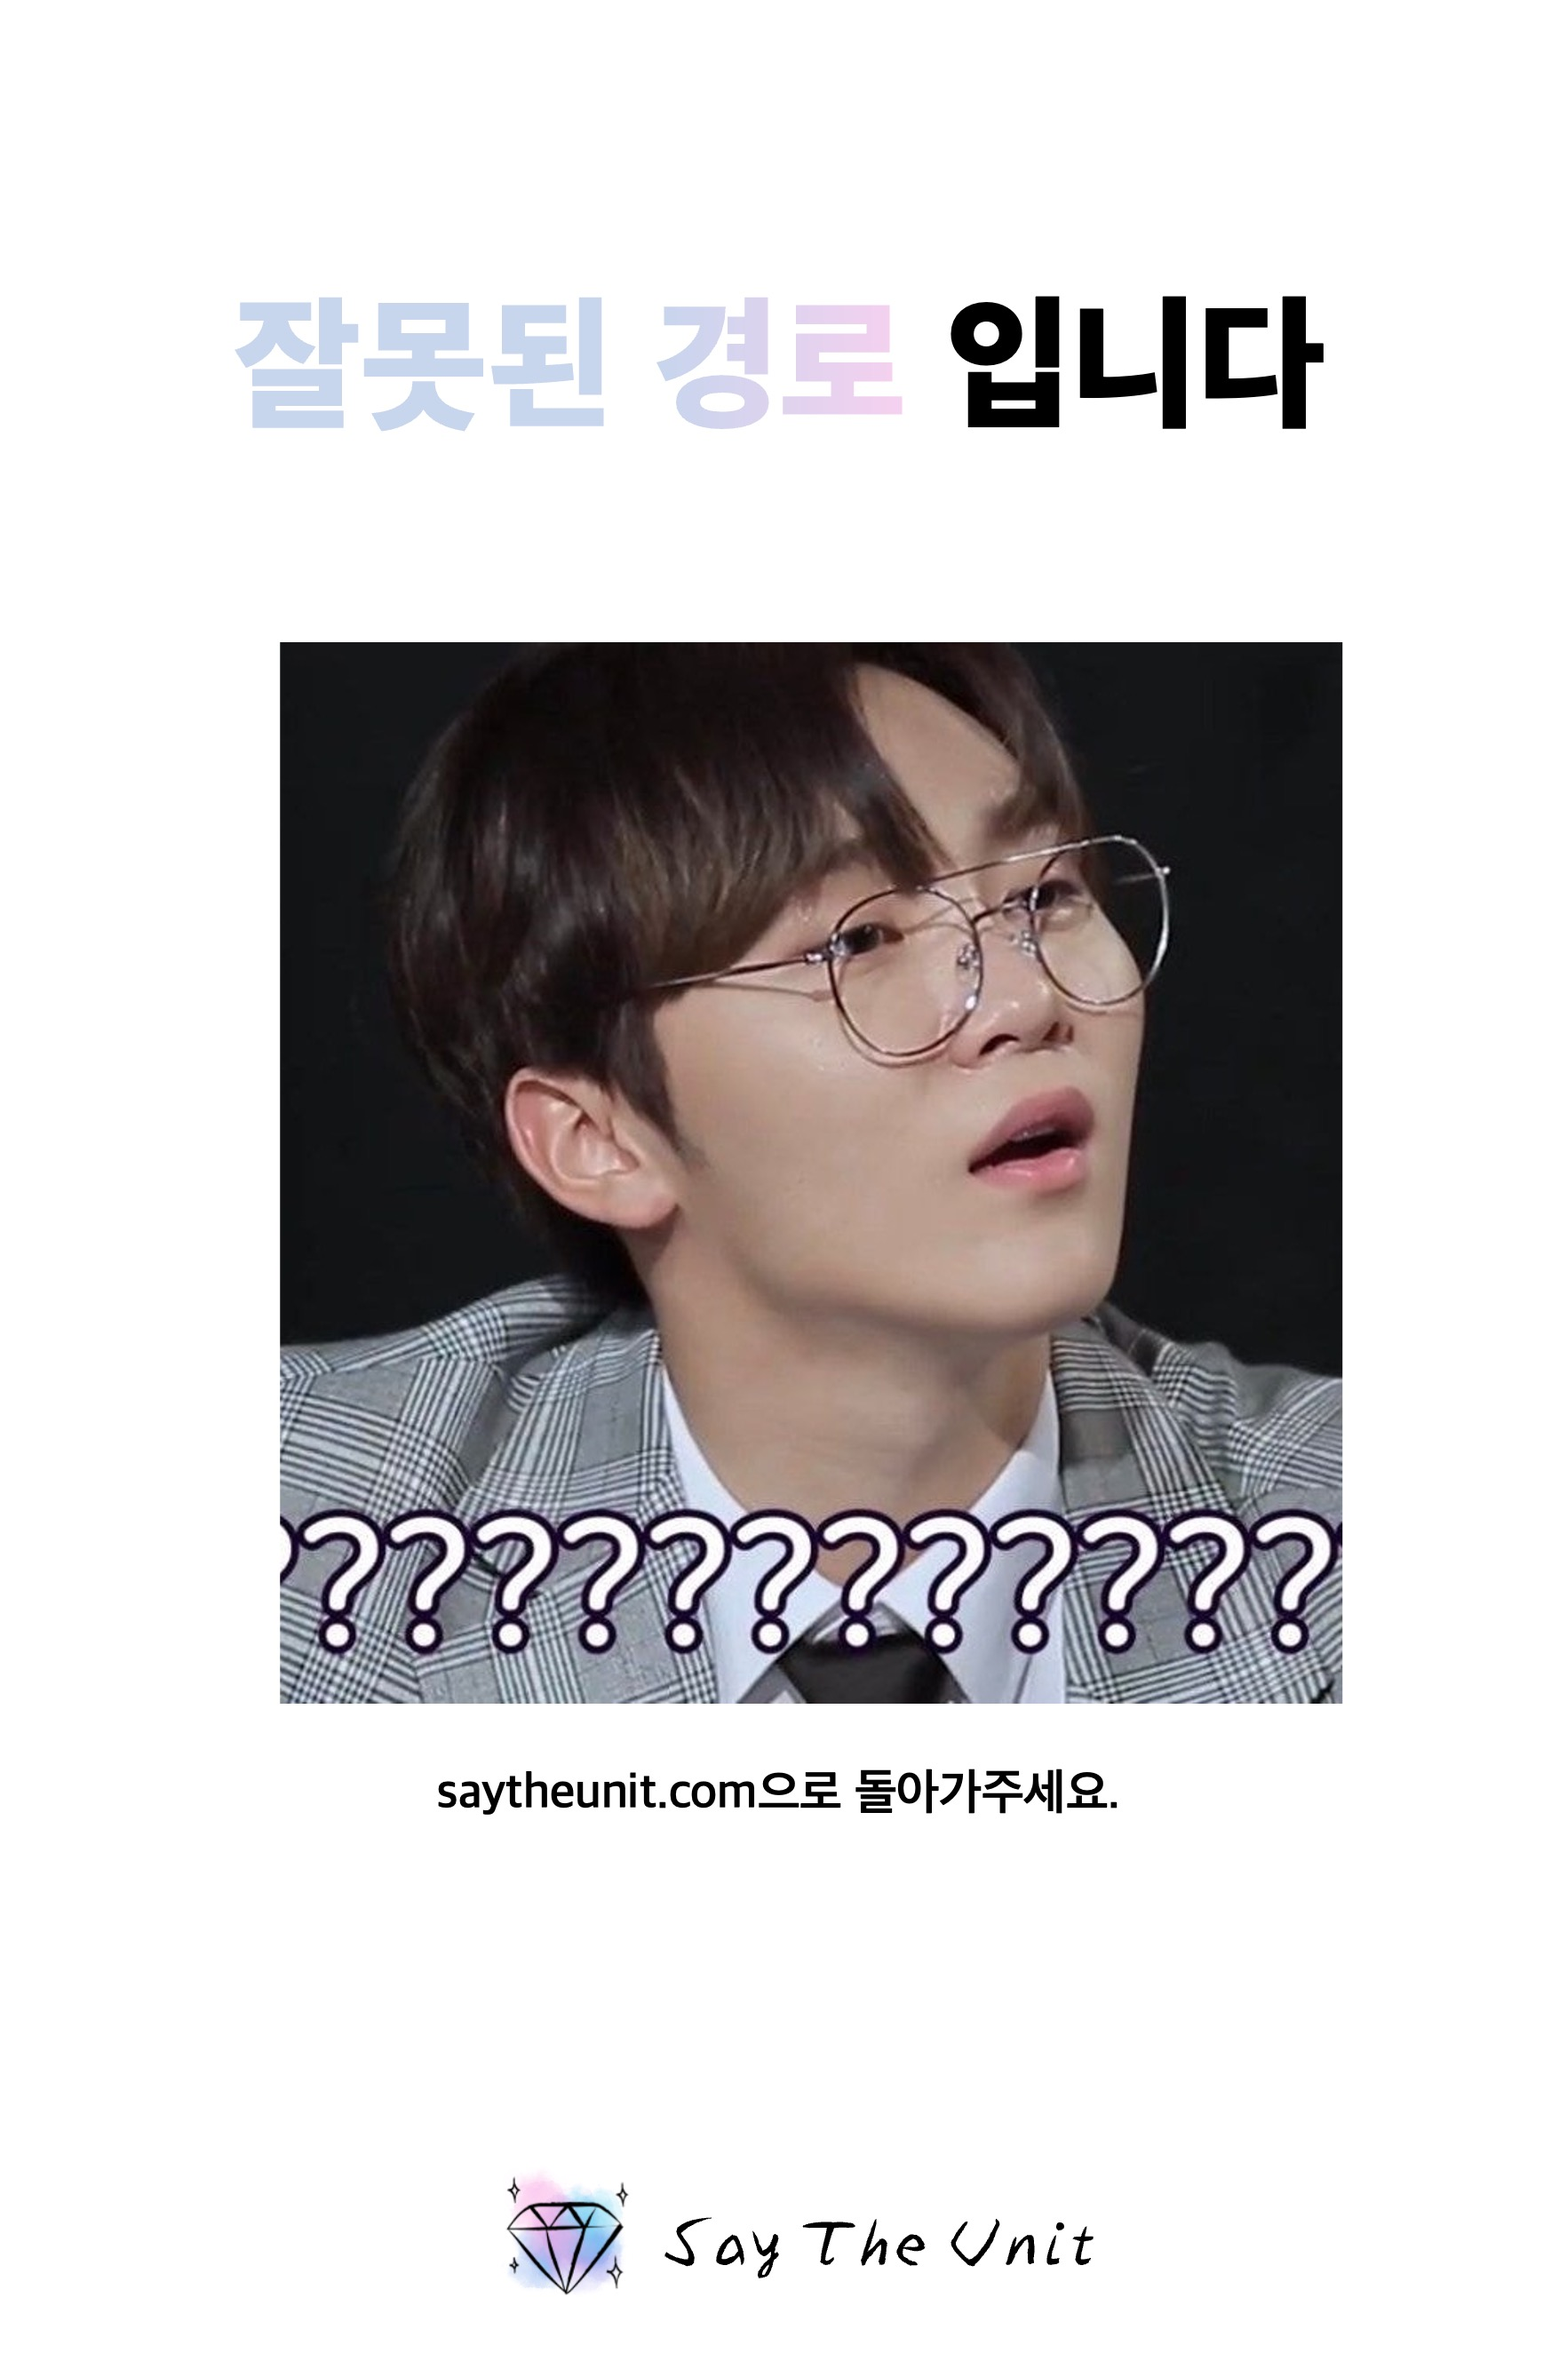
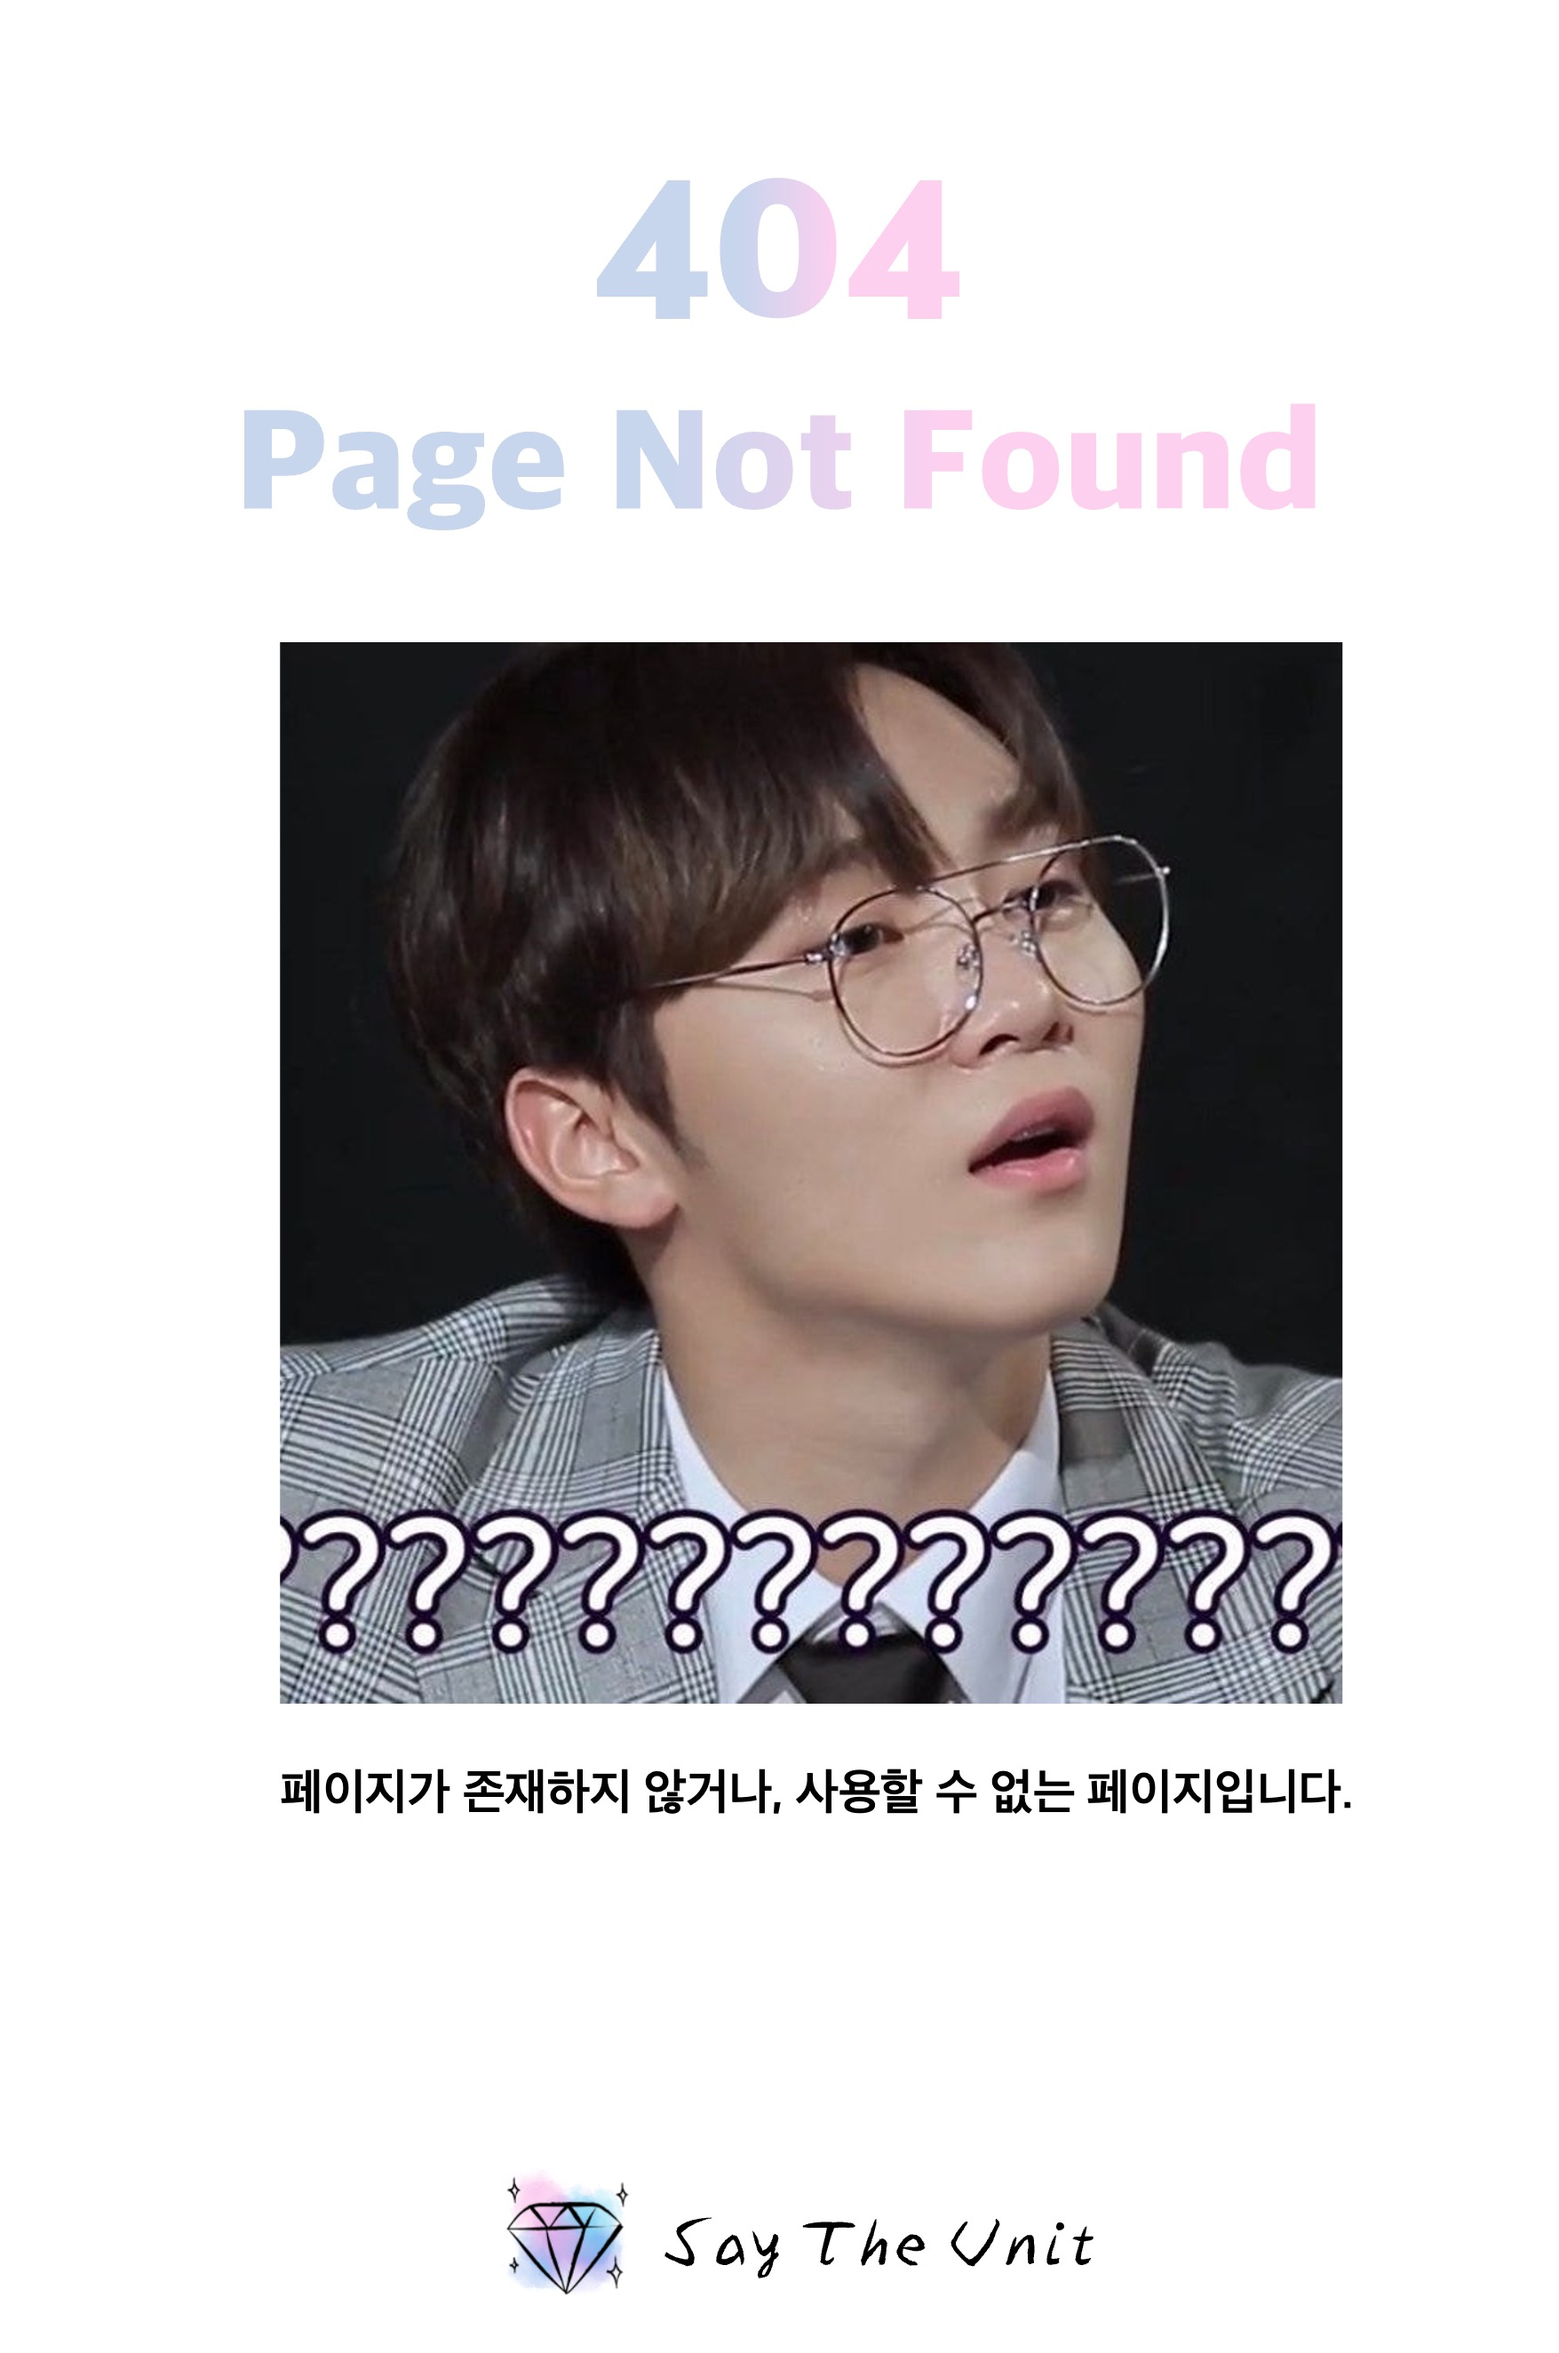
fix: handle 404 && wrong path pages

Changed region(s): [[0.1538, 0.0619, 0.8615, 0.2476], [0.1846, 0.7429, 0.8615, 0.7739]]

diff --git a/saytheunit-fe/src/pages/Main/Main.jsx b/saytheunit-fe/src/pages/Main/Main.jsx
@@ -1,4 +1,4 @@
-import React, { useState, useLayoutEffect } from 'react';
+import React, { useState } from 'react';
 import './index.css';
 import Header from '../../components/Header/Header';
 import Album from '../Album/Album';
@@ -14,15 +14,6 @@ const Main = () => {
   const toggleSnapshoot = () => {
     setShowSnapshoot(!showSnapshoot);
   };
-
-  const hoverImgPreload = () => {
-    let img = new Image();
-    img.src = '/svt-total-bg-frame.jpg';
-  };
-
-  useLayoutEffect(() => {
-    hoverImgPreload();
-  }, []);
 
   return (
     <div className="bg-diamondBg bg-repeat bg-contain w-full h-full flex flex-col m-auto items-center">

diff --git a/saytheunit-fe/src/components/App.js b/saytheunit-fe/src/components/App.js
@@ -1,12 +1,14 @@
 import React from 'react';
 import { BrowserRouter, Routes, Route } from 'react-router-dom';
 import Main from '../pages/Main/Main';
+import Error404 from '../pages/Error404/Error404';
 
 const App = () => {
   return (
     <BrowserRouter>
       <Routes>
         <Route path="/" element={<Main />} />
+        <Route path="/*" element={<Error404 />} />
       </Routes>
     </BrowserRouter>
   );

diff --git a/saytheunit-be/server.js b/saytheunit-be/server.js
@@ -161,12 +161,6 @@ function findCommonUnitNames(arrays) {
 // Error Handling
 app.use((req, res) => {
   res.status(404);
-  res.sendFile(path.join(__dirname, "./public/404.html"));
-});
-
-// 잘못된 경로로 접속시에도 에러 핸들링
-app.get("*", (req, res) => {
-  res.status(403);
   res.sendFile(path.join(__dirname, "./public/wrong-path.html"));
 });
 

diff --git a/saytheunit-fe/src/pages/Error404/index.css b/saytheunit-fe/src/pages/Error404/index.css
@@ -1,0 +1,15 @@
+img {
+  width: 100%;
+  height: auto;
+}
+
+@media (min-width: 768px) {
+  img {
+    width: 100%;
+    max-width: 600px;
+    height: auto;
+    display: flex;
+    margin: auto;
+    align-items: center;
+  }
+}

diff --git a/saytheunit-fe/src/pages/Error404/Error404.jsx b/saytheunit-fe/src/pages/Error404/Error404.jsx
@@ -1,0 +1,9 @@
+import React from 'react';
+import './index.css';
+import errorImg from '/service-update-page.jpg';
+
+const Error404 = () => {
+  return <img src={errorImg} alt="Say the 점검" />;
+};
+
+export default Error404;
